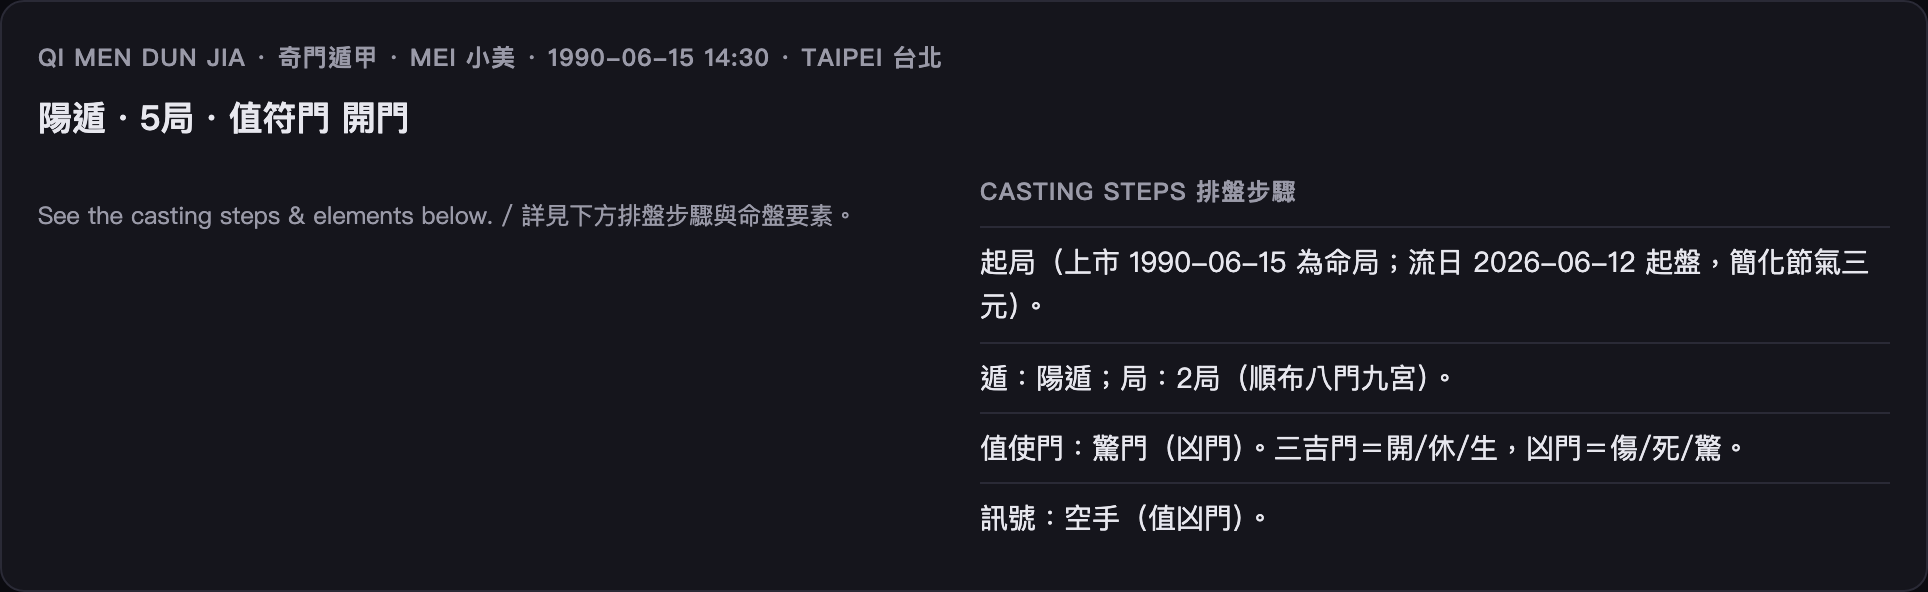
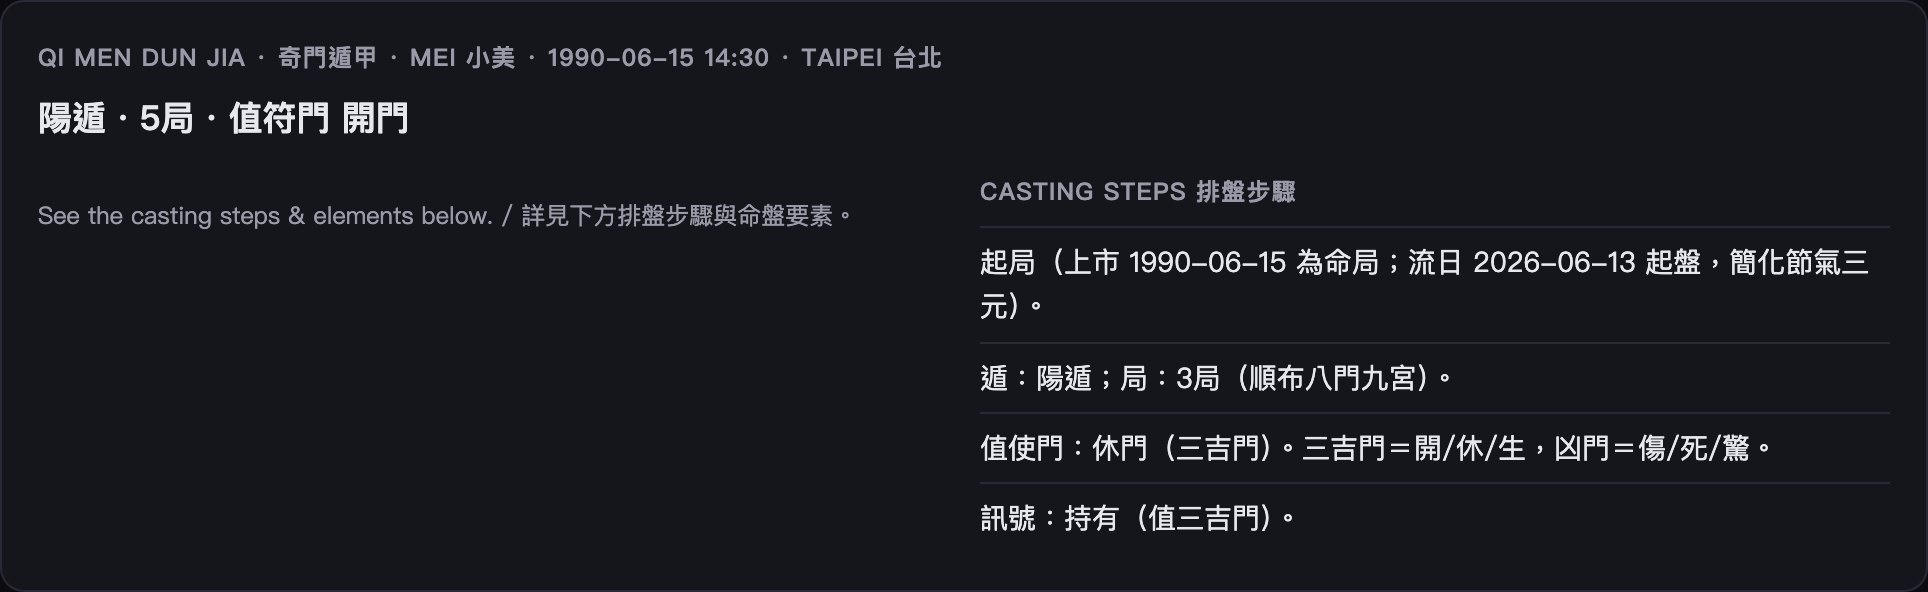
feat: multi-year heatmap + auto turning-point detection
② Turning points — annual.overview compares consecutive years and flags the year a new
   大運 starts, the daśā lord changes, or the 八字 流年 flips favourable↔challenging; each
   year also gets a −2..+2 favourability score. Surfaced as turning_points + per-row
   turning[], and fed into interpret_overview so the reading calls them out.

① Heatmap — OverviewView renders a per-year colour strip (green favourable → red
   challenging by score) with ★ on turning-point years and hover details, a turning-
   points line, and a 轉折 column on the table. Captured a real screenshot into docs/.

pytest 65→66. next build clean. Smoke: 2018–2029 → turning points 2022 (八字→忌)
/ 2023 (new 大運 戊寅) / 2028 (八字→喜用), scores track the flip.

Changed region(s): [[0.5602, 0.7297, 0.9336, 0.7905], [0.529, 0.8514, 0.6846, 0.9122]]

diff --git a/web/app/_components/AnnualView.tsx b/web/app/_components/AnnualView.tsx
@@ -48,25 +48,62 @@ export function AnnualView({ a }: { a: AnnualReport }) {
 const fav = (v?: string) => (v || "").startsWith("favourable")
   ? { color: "var(--good)" } : (v ? { color: "var(--bad)" } : {});
 
+// score −2..+2 → heatmap colour (green favourable, red challenging)
+function scoreColor(score: number): string {
+  const m: Record<number, string> = {
+    2: "rgba(52,211,153,0.72)", 1: "rgba(52,211,153,0.40)", 0: "#3f3f46",
+    [-1]: "rgba(251,113,133,0.40)", [-2]: "rgba(251,113,133,0.72)",
+  };
+  return m[Math.max(-2, Math.min(2, score))] ?? "#3f3f46";
+}
+
 export function OverviewView({ o }: { o: AnnualOverview }) {
   return (
     <>
       <div className="card">
         <h3>多年運勢 Multi-year outlook · {o.subject} · {o.start_year}–{o.start_year + o.count - 1}</h3>
+
+        {/* heatmap strip: one colour block per year, ★ marks a turning point */}
+        <div style={{ display: "flex", gap: 3, margin: "4px 0 6px", overflowX: "auto" }}>
+          {o.years.map((y) => (
+            <div key={y.year} title={(y.turning || []).join(" · ") || `score ${y.score}`}
+                 style={{ flex: "1 0 42px", minWidth: 42, textAlign: "center", padding: "8px 2px",
+                          borderRadius: 5, background: scoreColor(y.score), fontSize: 11,
+                          outline: (y.turning?.length ? "2px solid var(--accent)" : "none") }}>
+              <div style={{ fontWeight: 600 }}>{String(y.year).slice(2)}{y.turning?.length ? " ★" : ""}</div>
+              <div className="muted" style={{ fontSize: 9 }}>{y.bazi_element}</div>
+            </div>
+          ))}
+        </div>
+        <p className="muted" style={{ fontSize: 11, marginTop: 0 }}>
+          綠＝喜用/吉、紅＝忌耗/凶（八字流年＋Jyotiṣa 大運）；★＝關鍵轉折年（換大運/換 daśā/八字翻轉）。
+          green = favourable · red = challenging · ★ = turning point.
+        </p>
+
+        {(o.turning_points?.length ?? 0) > 0 && (
+          <p style={{ fontSize: 13 }}>
+            <b>關鍵轉折 Turning points:</b>{" "}
+            {o.turning_points.map((t, i) => (
+              <span key={t.year}>{i > 0 ? "　" : ""}<b style={{ color: "var(--accent)" }}>{t.year}</b>：{t.events.join(" / ")}</span>
+            ))}
+          </p>
+        )}
+
         <div style={{ overflowX: "auto" }}>
           <table>
             <thead><tr>
-              <th>Year 年</th><th>Age 歲</th><th>SR 上升</th><th>八字流年</th><th>大運</th><th>紫微</th><th>Jyotiṣa daśā</th>
+              <th>Year 年</th><th>Age 歲</th><th>SR 上升</th><th>八字流年</th><th>大運</th><th>紫微</th><th>Jyotiṣa daśā</th><th>轉折</th>
             </tr></thead>
             <tbody>
               {o.years.map((y) => (
-                <tr key={y.year}>
+                <tr key={y.year} style={y.turning?.length ? { outline: "1px solid var(--accent)" } : {}}>
                   <td><b>{y.year}</b></td><td className="muted">{y.age}</td>
                   <td>{y.sr_ascendant}</td>
                   <td style={fav(y.bazi_verdict)}>{y.bazi_element}</td>
                   <td className="muted">{y.dayun}</td>
                   <td>{y.ziwei_stem}年</td>
                   <td style={{ color: y.jyotish_nature === "benefic" ? "var(--good)" : "var(--bad)" }}>{y.jyotish_lord}</td>
+                  <td style={{ color: "var(--accent)", fontSize: 11 }}>{(y.turning || []).join(" / ")}</td>
                 </tr>
               ))}
             </tbody>

diff --git a/web/lib/api.ts b/web/lib/api.ts
@@ -101,10 +101,15 @@ export interface AnnualReport {
 export const getAnnual = (birth: BirthInput, year: number, focus: string | null) =>
   post<AnnualReport>(`/annual-report`, { birth, year, focus });
 
+export interface OverviewYear {
+  year: number; age: number; sr_ascendant?: string; bazi_element?: string; bazi_verdict?: string;
+  dayun?: string; ziwei_stem?: string; jyotish_lord?: string; jyotish_nature?: string;
+  score: number; turning: string[];
+}
 export interface AnnualOverview {
   subject: string; start_year: number; count: number; summary: string; interpretation: string;
-  years: { year: number; age: number; sr_ascendant?: string; bazi_element?: string; bazi_verdict?: string;
-           dayun?: string; ziwei_stem?: string; jyotish_lord?: string; jyotish_nature?: string }[];
+  years: OverviewYear[];
+  turning_points: { year: number; events: string[] }[];
 }
 export const getOverview = (birth: BirthInput, start_year: number, count: number, focus: string | null) =>
   post<AnnualOverview>(`/annual-overview`, { birth, start_year, count, focus });

diff --git a/fortune/annual.py b/fortune/annual.py
@@ -72,12 +72,19 @@ def compute(birth: BirthInput, year: int, *, light: bool = False) -> dict:
     return report
 
 
+def _year_score(row: dict) -> int:
+    """A small favourability score (-2..+2): 八字 喜用/忌 + Jyotiṣa benefic/malefic daśā."""
+    s = 1 if row["bazi_verdict"].startswith("favourable") else -1
+    s += 1 if row["jyotish_nature"] == "benefic" else -1
+    return s
+
+
 def overview(birth: BirthInput, start_year: int, count: int = 6) -> dict:
-    """A compact one-row-per-year arc across `count` years (no full per-year LLM)."""
+    """A compact one-row-per-year arc across `count` years (no full per-year LLM),
+    with a favourability score and auto-detected turning points."""
     rows = []
     for y in range(start_year, start_year + count):
-        r = compute(birth, y, light=True)
-        s = r["sections"]
+        s = compute(birth, y, light=True)["sections"]
         rows.append({
             "year": y, "age": y - birth.as_date.year,
             "sr_ascendant": s["solar_return"]["ascendant"],
@@ -86,5 +93,25 @@ def overview(birth: BirthInput, start_year: int, count: int = 6) -> dict:
             "ziwei_stem": s["ziwei"]["year_stem"],
             "jyotish_lord": s["jyotish"]["mahadasha_lord"], "jyotish_nature": s["jyotish"]["nature"],
         })
+
+    prev = None
+    for r in rows:
+        r["score"] = _year_score(r)
+        t: list[str] = []
+        if prev is not None:
+            if r["dayun"] != prev["dayun"]:
+                t.append(f"new 大運 {r['dayun']}")
+            if r["jyotish_lord"] != prev["jyotish_lord"]:
+                t.append(f"daśā → {r['jyotish_lord']}")
+            pf = prev["bazi_verdict"].startswith("favourable")
+            cf = r["bazi_verdict"].startswith("favourable")
+            if pf != cf:
+                t.append("八字 → " + ("favourable 喜用" if cf else "challenging 忌耗"))
+        r["turning"] = t
+        prev = r
+
+    turning_points = [{"year": r["year"], "events": r["turning"]} for r in rows if r["turning"]]
     return {"subject": birth.label(), "start_year": start_year, "count": count, "years": rows,
-            "summary": f"{birth.label()} · {start_year}–{start_year + count - 1}：{count}-year outlook"}
+            "turning_points": turning_points,
+            "summary": f"{birth.label()} · {start_year}–{start_year + count - 1}：{count}-year outlook"
+                       + (f"・{len(turning_points)} turning point(s)" if turning_points else "")}

diff --git a/tests/test_smoke.py b/tests/test_smoke.py
@@ -129,8 +129,21 @@ def test_annual_overview_arc():
     assert len(ov["years"]) == 5
     assert [y["year"] for y in ov["years"]] == [2024, 2025, 2026, 2027, 2028]
     assert all(y["sr_ascendant"] and y["bazi_element"] and y["jyotish_lord"] for y in ov["years"])
+    assert all(-2 <= y["score"] <= 2 and "turning" in y for y in ov["years"])
     # light mode omits the heavy chart payload
     assert "chart" not in annual.compute(BIRTH, 2026, light=True)["sections"]["solar_return"]
+
+
+def test_overview_turning_points_detected():
+    from fortune import annual
+    ov = annual.overview(BIRTH, 2018, 12)   # spans a 八字 flip and a 大運 change
+    assert ov["turning_points"]
+    events = " ".join(e for t in ov["turning_points"] for e in t["events"])
+    assert "大運" in events or "八字" in events or "daśā" in events
+    # the year of a turning point carries its events on the row too
+    tp = ov["turning_points"][0]
+    row = next(y for y in ov["years"] if y["year"] == tp["year"])
+    assert row["turning"] == tp["events"]
 
 
 def test_solar_return_year_timeline():

diff --git a/scripts/screenshots.py b/scripts/screenshots.py
@@ -81,5 +81,15 @@ with sync_playwright() as p:
     shot(pg.locator(".card").filter(has_text="Group dynamics").first, "group-matrix.png")
     shot(pg.locator(".card").filter(has_text="Group composite").first.locator("svg"), "group-composite-wheel.png")
 
+    # --- annual multi-year overview heatmap ---
+    pg.get_by_text("Annual 年度報告", exact=False).first.click()
+    nums = pg.locator("input[type='number']")
+    nums.nth(0).fill("2018")   # year
+    nums.nth(1).fill("12")     # span
+    pg.get_by_role("button", name="Multi-year 多年").click()
+    pg.wait_for_selector("text=Multi-year outlook", timeout=20000)
+    pg.wait_for_timeout(1000)
+    shot(pg.locator(".card").filter(has_text="Multi-year outlook").first, "annual-overview.png")
+
     b.close()
 print("done")

diff --git a/fortune/interpret.py b/fortune/interpret.py
@@ -192,7 +192,8 @@ def interpret_overview(ov: dict, *, focus: str | None = None) -> str:
     head = f"Multi-year outlook 多年運勢 · {ov.get('subject')} · {ov.get('start_year')}–{ov.get('start_year', 0) + ov.get('count', 1) - 1}\n"
     if focus:
         head += f"★ They ask about / 想問: {focus}\n"
-    user = head + f"\nPer-year facts (JSON):\n{json.dumps(ov.get('years', []), ensure_ascii=False, indent=2)}\n\nSketch the arc bilingually."
+    facts = {"years": ov.get("years", []), "turning_points": ov.get("turning_points", [])}
+    user = head + f"\nFacts (JSON):\n{json.dumps(facts, ensure_ascii=False, indent=2)}\n\nSketch the arc bilingually; call out the turning-point years."
     return complete(_OVERVIEW_SYSTEM, user)
 
 

diff --git a/docs/README.md b/docs/README.md
@@ -17,6 +17,14 @@ Plain-language guides — what each divination system is and how to read its cha
 | 太乙神數 Tai Yi Shen Shu | [taiyi.md](taiyi.md) — 太乙九宮、主客 |
 | Jyotiṣa 吠陀占星 | [jyotish.md](jyotish.md) — rāśi 盤、月宿、Daśā 大運 |
 
+## 年度報告 / Annual outlook
+
+跨系統的**年度報告**（太陽回歸＋八字流年大運＋紫微四化＋Jyotiṣa 大運）與**多年走勢**——逐年吉凶色塊（綠＝喜用、紅＝忌耗）＋自動標出**關鍵轉折年**（換大運／換 daśā／八字翻轉）。在首頁 **Annual 年度報告** 模式產生，可列印存 PDF。
+
+![multi-year overview 多年走勢熱力圖](img/annual-overview.png)
+
+---
+
 > 共通：每套都只吃一個輸入——**生辰**（日期＋時辰＋出生地）。命盤是**確定性排出**（同生辰永遠同盤）；AI 解讀是疊在事實上的一層白話。
 > All share one input — your **birth moment**. Charts are deterministic; the AI reading sits on top of the facts.
 